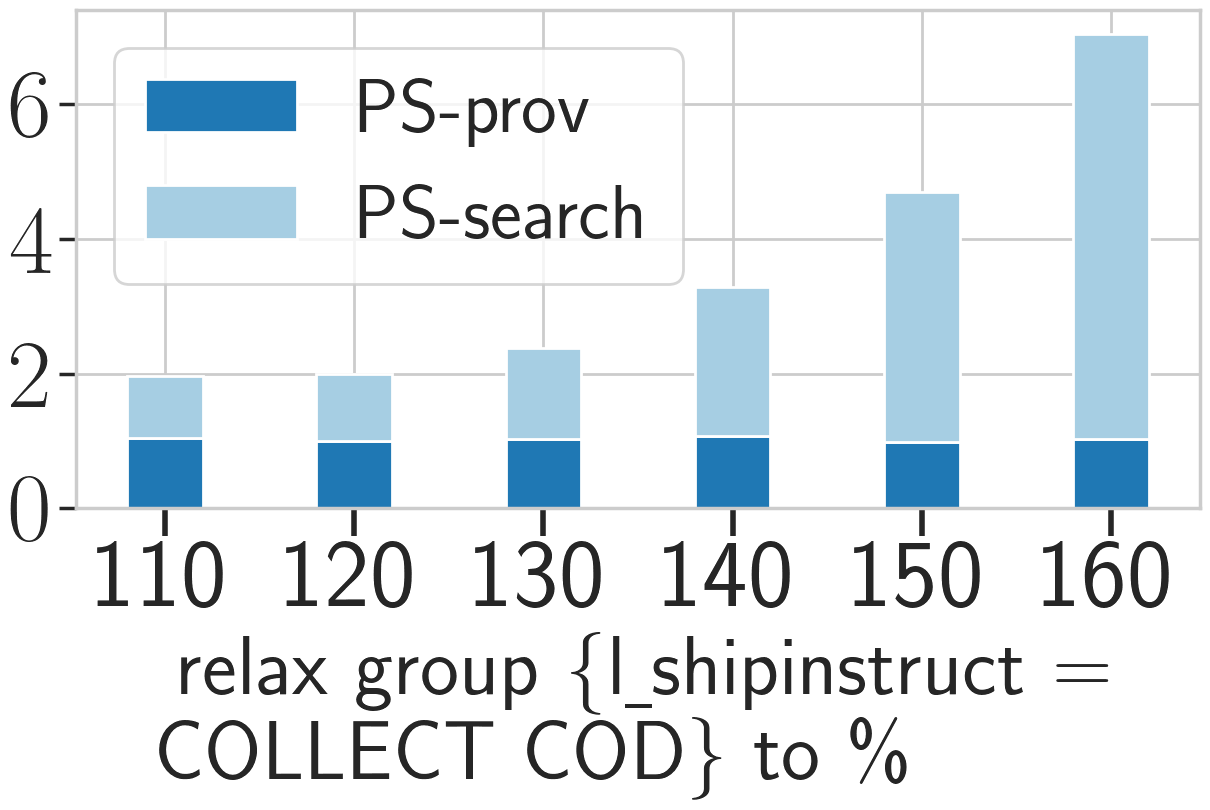
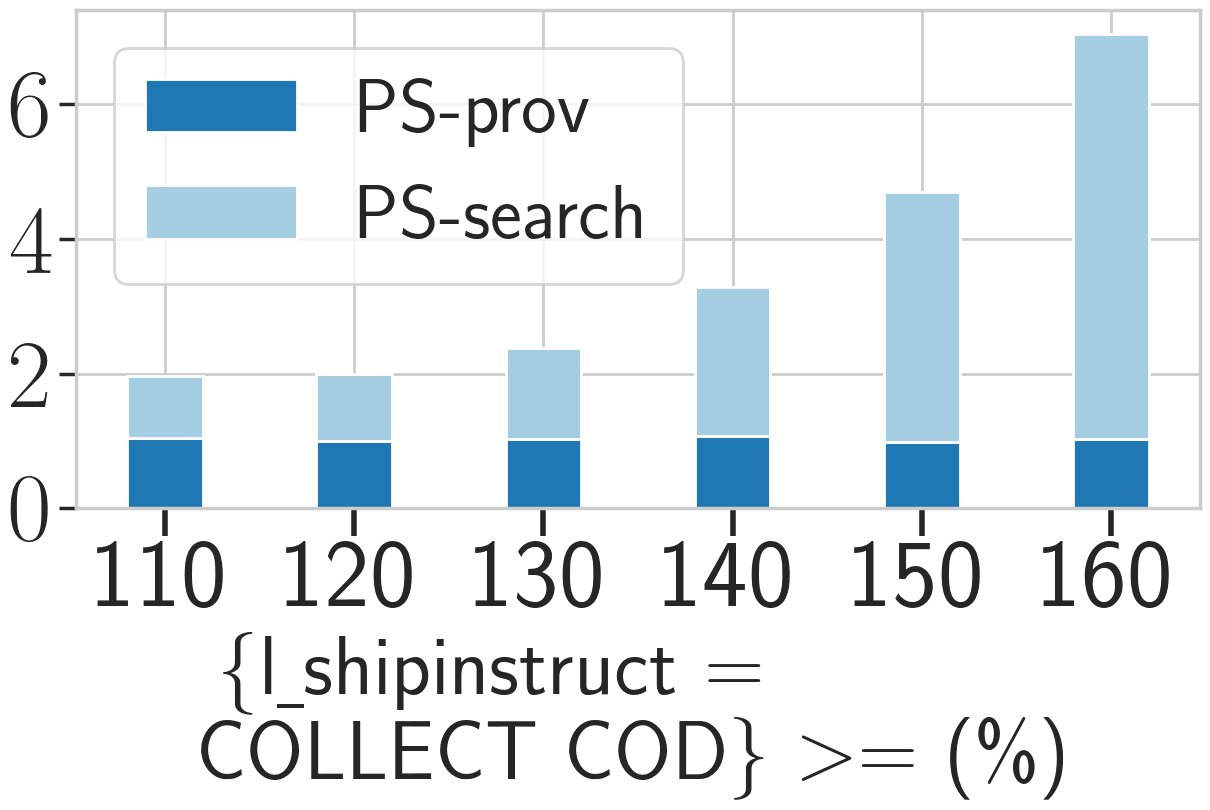
fix fig

Changed region(s): [[0.1223, 0.7716, 0.8868, 0.9877], [0.8868, 0.8025, 0.9174, 0.8642]]

diff --git a/Experiment/TPCH/100M/constraint_change/q12_relax/fig.py b/Experiment/TPCH/100M/constraint_change/q12_relax/fig.py
@@ -84,7 +84,7 @@ def run(query, size, constraint):
     plt.xticks(np.arange(0, 6, 1), x_list, rotation=0, fontsize=70)
     plt.yticks(fontsize=70, weight='bold')
 
-    plt.xlabel(r'relax group \{l\underline{ }shipinstruct = \\COLLECT COD\} to \%', fontsize=60)
+    plt.xlabel(r'\{l\underline{ }shipinstruct = \\COLLECT COD\} $>=$ (\%)', fontsize=60)
 
     # plt.legend(loc='upper right', bbox_to_anchor=(0.98, 0.7), fontsize=50)
     plt.legend(loc='best', fontsize=55)
